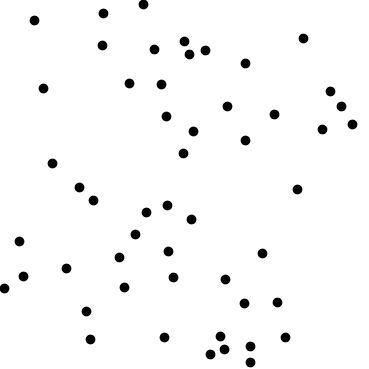
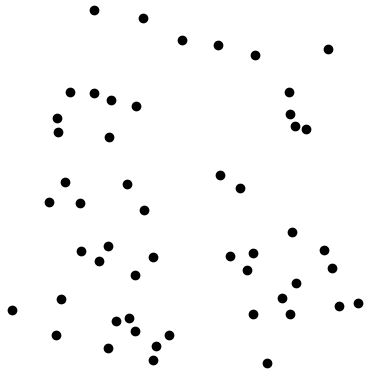
made harder dot activities

diff --git a/routes/loadQuestion.js b/routes/loadQuestion.js
@@ -9,7 +9,7 @@ var url = 'mongodb://localhost:27017/';
 let assignQuestions = require('./assignQuestions')
 
 Base = 50
-noiseLevels = [128,64,32,16,8,4,2,1]
+noiseLevels = [128,7,6,5,4,3,2,1]
 
 const loadModule = { 
     
@@ -24,7 +24,7 @@ const loadModule = {
         co(function* () {
 
             let client = yield MongoClient.connect(url);
-            const db = client.db('ratingsrankingsbasic')
+            const db = client.db('ratingsrankingshard')
             let usersCol = db.collection('users')
             let questionPoolCol = db.collection('questionPool')
         
@@ -80,7 +80,7 @@ const loadModule = {
       co(function* () {
 
         let client = yield MongoClient.connect(url);
-        const db = client.db('ratingsrankingsbasic')
+        const db = client.db('ratingsrankingshard')
         let usersCol = db.collection('users')
         let responseCol = db.collection('responses')
         let questionPoolCol = db.collection('questionPool')
@@ -111,7 +111,7 @@ const loadModule = {
         co(function* () {
 
           let client = yield MongoClient.connect(url);
-          const db = client.db('ratingsrankingsbasic')
+          const db = client.db('ratingsrankingshard')
           let usersCol = db.collection('users')
           let questionPoolCol = db.collection('questionPool')
   

diff --git a/routes/storeQuestion.js b/routes/storeQuestion.js
@@ -15,7 +15,7 @@ const storeModule = {
         co(function* () {
 
             let client = yield MongoClient.connect(url);
-            const db = client.db('ratingsrankingsbasic')
+            const db = client.db('ratingsrankingshard')
             let responseCol = db.collection('responses')
 
             var item = {
@@ -60,7 +60,7 @@ const storeModule = {
         co(function* () {
 
             let client = yield MongoClient.connect(url);
-            const db = client.db('ratingsrankingsbasic')
+            const db = client.db('ratingsrankingshard')
             let responseCol = db.collection('responses')
 
             var item = {
@@ -82,7 +82,7 @@ const storeModule = {
 
         co(function* () {
             let client = yield MongoClient.connect(url);
-            const db = client.db('ratingsrankingsbasic')
+            const db = client.db('ratingsrankingshard')
             let UsersCol = db.collection('users')
 
             newItem = {

diff --git a/public/javascripts/ratings.js b/public/javascripts/ratings.js
@@ -43,8 +43,6 @@ function renderQuestion(question, picture, id, userID){
             .attr("y", 2)
             .attr("width", imageSize)
             .attr("height", imageSize)
-    
-    var data = [0, 50, 100, 150, 200, 250, 300, 350, 400];
 
     d3.select(".btn.btn-success.nextBtn").on("click", function () {
         //console.log("Button Clicked");
@@ -79,6 +77,8 @@ function sendData(id, userID, picture, time, rating){
 
 
 /*
+
+var data = [0, 50, 100, 150, 200, 250, 300, 350, 400];
     var sliderSimple = d3
         .sliderBottom() 
         .min(d3.min(data))

diff --git a/routes/activity.js b/routes/activity.js
@@ -4,7 +4,6 @@ var MongoClient = require('mongodb').MongoClient;
 var assert = require('assert');
 const co = require('co');
 
-var url = 'mongodb://localhost:27017/';
 var userID = null
 let loadQuestion = require('./loadQuestion')
 let storeQuestion = require('./storeQuestion')

diff --git a/dotgenerator.py b/dotgenerator.py
@@ -10,19 +10,19 @@ area = np.pi*3
 
 masterArray = []
 
-noiseLevels = {1,2,4,8,16,32,64,128}
+noiseLevels = {1,2,3,4,5,6,7,128}
 
 #loop through noise levels and generate pictures
 for i in noiseLevels:
 
-    #PATH = 'C:/Users/rwkemmer/Desktop/dots/'
+    PATH = 'C:/Users/rwkemmer/Desktop/dots/'
 
     print("Noise Level: " + str(i))
 
     pictureData = []
 
-    #os.chdir(PATH)
-    #os.mkdir(str(i))
+    os.chdir(PATH)
+    os.mkdir(str(i))
 
     #each picture per noise level
     for j in range(4):
@@ -56,11 +56,9 @@ for i in noiseLevels:
             if valid_checks == len(existing_locations):
                 dots += 1
                 existing_locations.append(new_location)    
-                #plt.plot(x, y, 'ko')
+                plt.plot(x, y, 'ko')
 
-        print("number of dots: " + str(dots))
-
-        '''
+        
         axes = plt.gca()
         axes.set_xlim([-0.01,1.01])
         axes.set_ylim([-0.01,1.01])
@@ -72,13 +70,15 @@ for i in noiseLevels:
 
         plt.clf()
 
-        '''
-
     activityArray = [i, pictureData]
 
     masterArray.append(activityArray)
 
 permutationArray = []
+
+#change path to app template
+PATH = 'C:/Users/rwkemmer/Documents/apptemplate/'
+os.chdir(PATH)
 
 for i in masterArray:
     permutationsofActivity = []
@@ -111,24 +111,6 @@ with open('public/data/questions.json', 'w') as outfile:
     json.dump(data, outfile)
 
 
-'''
-for i in permutationArray: 
-    ordering = i[2]
-    data.append({
-        'noiselevel': i[0],
-        'variation': i[1],
-        'array': ordering,
-        #'pos0': ordering[0],
-        #'pos1': ordering[1],
-        #'pos2': ordering[2],
-        #'pos3': ordering[3]
-    })
-
-#dump to outfile
-with open('public/data/questions.json', 'w') as outfile:
-    json.dump(data, outfile)
-
-'''
 
 
 
